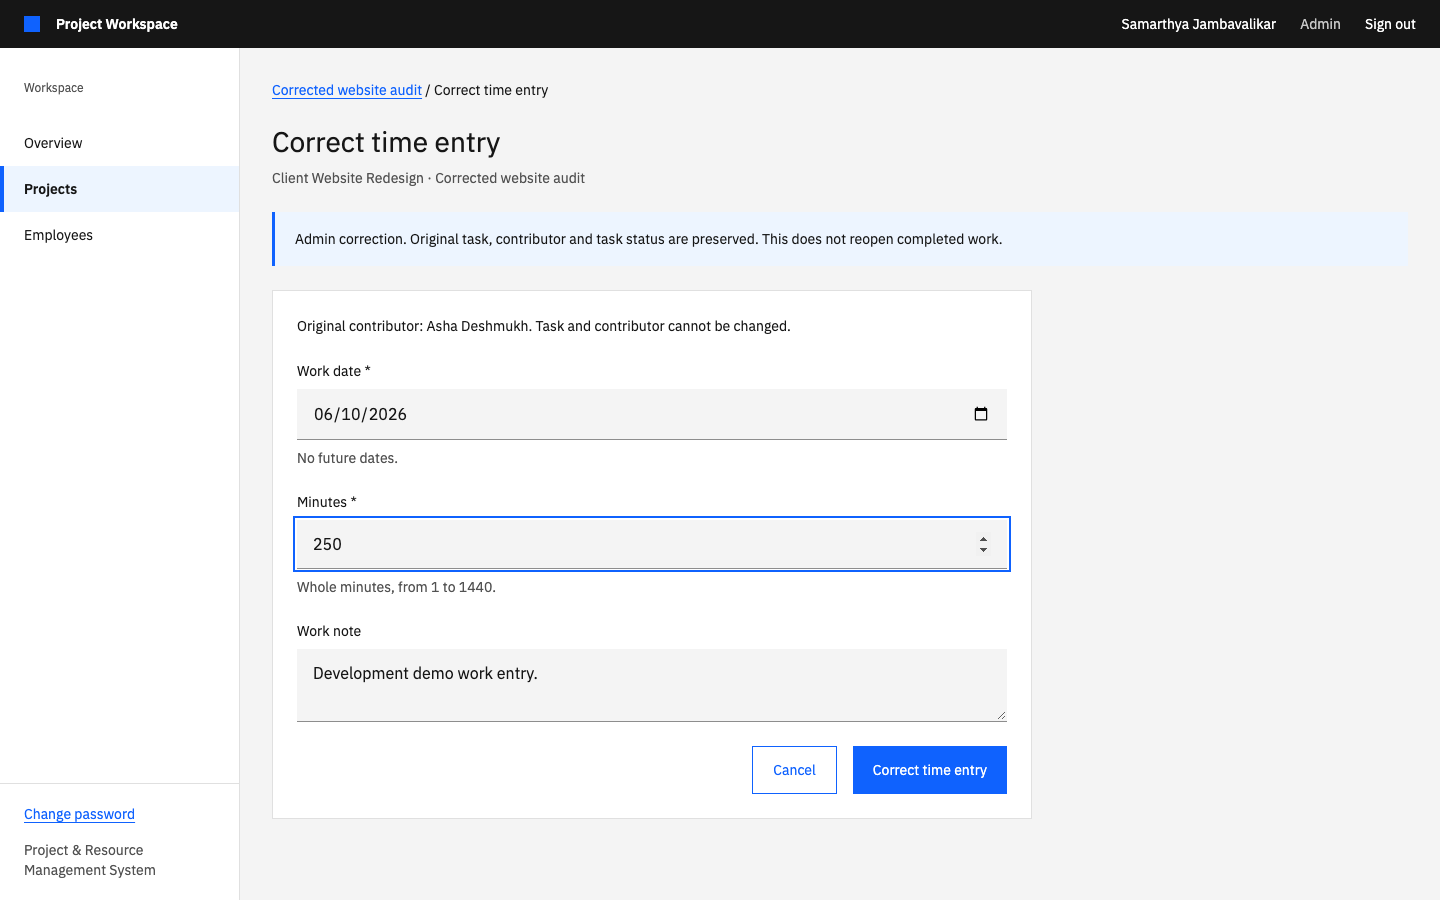
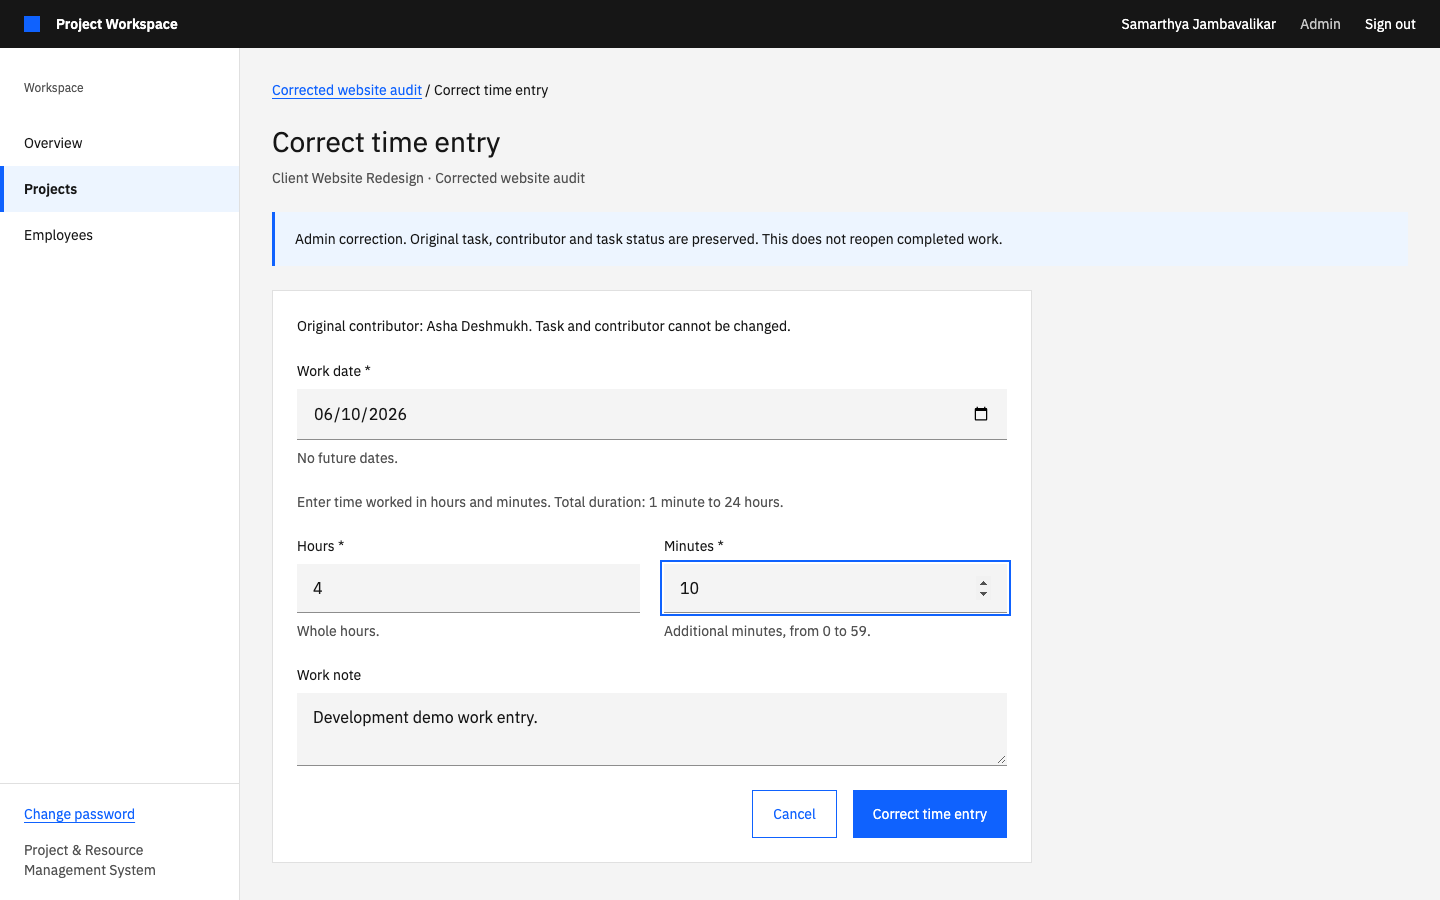
Make time logging easier with hours and minutes

Changed region(s): [[0.1875, 0.5289, 0.6875, 0.7156], [0.5312, 0.8089, 0.7188, 0.9333], [0.2188, 0.7467, 0.375, 0.8089]]

diff --git a/templates/workspace/time_fields.html b/templates/workspace/time_fields.html
@@ -1,1 +1,5 @@
-{% include "workspace/form_errors.html" %}{% include "workspace/field.html" with field=form.work_date %}{% include "workspace/field.html" with field=form.minutes %}{% include "workspace/field.html" with field=form.note %}<p class="saving-status" role="status" hidden>Saving…</p>
+{% include "workspace/form_errors.html" %}
+{% include "workspace/field.html" with field=form.work_date %}
+<p class="help">Enter time worked in hours and minutes. Total duration: 1 minute to 24 hours.</p>
+<div class="field-grid">{% include "workspace/field.html" with field=form.hours %}{% include "workspace/field.html" with field=form.minutes %}</div>
+{% include "workspace/field.html" with field=form.note %}<p class="saving-status" role="status" hidden>Saving…</p>

diff --git a/tests/test_task_html.py b/tests/test_task_html.py
@@ -26,7 +26,19 @@ def task_data(t, **extra):
 
 
 def time_data(t, **extra):
-    return {"work_date": str(t.today), "minutes": 60, "note": "Retained private note", **extra}
+    duration = extra.pop("minutes", 60)
+    hours, minutes = (
+        divmod(duration, 60)
+        if isinstance(duration, int) and "hours" not in extra
+        else (0, duration)
+    )
+    return {
+        "work_date": str(t.today),
+        "hours": hours,
+        "minutes": minutes,
+        "note": "Retained private note",
+        **extra,
+    }
 
 
 def test_complete_html_journey(workspace):
@@ -263,7 +275,39 @@ def test_database_failure_preserves_time_input(workspace):
     with patch("projects.services.create_time_entry", side_effect=DatabaseError("Test outage")):
         response = client_for(t.employee).post(f"/tasks/{t.task.pk}/time/add/", time_data(t))
     assert "Your changes could not be saved" in response.content.decode()
-    assert response.context["form"]["minutes"].value() == "60"
+    assert response.context["form"]["hours"].value() == "1"
+    assert response.context["form"]["minutes"].value() == "0"
+
+
+@pytest.mark.parametrize(
+    "hours,minutes,total", [(0, 1, 1), (3, 0, 180), (1, 30, 90), (24, 0, 1440)]
+)
+def test_hours_minutes_saved_as_total_minutes(workspace, hours, minutes, total):
+    t = workspace
+    response = client_for(t.employee).post(
+        f"/tasks/{t.task.pk}/time/add/", time_data(t, hours=hours, minutes=minutes)
+    )
+    assert response.status_code == 302
+    assert TimeEntry.objects.filter(task=t.task).latest("pk").minutes == total
+
+
+@pytest.mark.parametrize("hours,minutes", [(0, 0), (24, 1), (-1, 30), (1, 60), ("1.5", 0)])
+def test_invalid_split_duration_preserves_input(workspace, hours, minutes):
+    t = workspace
+    response = client_for(t.employee).post(
+        f"/tasks/{t.task.pk}/time/add/", time_data(t, hours=hours, minutes=minutes)
+    )
+    assert response.context["form"].errors
+    assert response.context["form"]["hours"].value() == str(hours)
+    assert response.context["form"]["note"].value() == "Retained private note"
+    assert TimeEntry.objects.filter(task=t.task).count() == 1
+
+
+def test_edit_time_initial_duration_is_split(workspace):
+    t = workspace
+    response = client_for(t.employee).get(f"/time-entries/{t.entry.pk}/edit/")
+    assert response.context["form"]["hours"].value() == 1
+    assert response.context["form"]["minutes"].value() == 30
 
 
 def test_actual_csrf_task_and_time_mutations(workspace):

diff --git a/tests/test_task_browser.py b/tests/test_task_browser.py
@@ -74,7 +74,10 @@ def test_manager_employee_complete_desktop_workflow(page, live_server):
     page.get_by_role("button", name="Start task", exact=True).click()
     expect(page.get_by_role("heading", name="Log time", exact=True)).to_be_visible()
     page.get_by_label("Work date").fill(today)
-    page.get_by_label("Minutes").fill("90")
+    page.get_by_label("Hours").fill("1")
+    page.keyboard.press("Tab")
+    expect(page.get_by_label("Minutes")).to_be_focused()
+    page.get_by_label("Minutes").fill("30")
     page.get_by_label("Work note").fill("Keyboard and navigation review")
     page.get_by_role("button", name="Log time", exact=True).click()
     entry = TimeEntry.objects.get(task=task)
@@ -82,7 +85,10 @@ def test_manager_employee_complete_desktop_workflow(page, live_server):
     shell_checks(page)
     capture(page, "employee-in-progress")
     page.get_by_role("link", name=f"Edit time entry {entry.pk}", exact=True).click()
-    page.get_by_label("Minutes").fill("120")
+    expect(page.get_by_label("Hours")).to_have_value("1")
+    expect(page.get_by_label("Minutes")).to_have_value("30")
+    page.get_by_label("Hours").fill("2")
+    page.get_by_label("Minutes").fill("0")
     capture(page, "employee-edit-time")
     page.get_by_role("button", name="Save time", exact=True).click()
     # Bypass native numeric validation to verify the server error and retained note.
@@ -128,7 +134,8 @@ def test_manager_employee_complete_desktop_workflow(page, live_server):
         str(live_server) + f"/time-entries/{entry.pk}/edit/",
         form={
             "work_date": today,
-            "minutes": "999",
+            "hours": "2",
+            "minutes": "0",
             "note": "Forbidden",
             "csrfmiddlewaretoken": token,
         },
@@ -174,7 +181,8 @@ def test_admin_corrections_and_foreign_access(page, live_server, demo):
     page.get_by_role("button", name="Correct completed task", exact=True).click()
     page.get_by_role("link", name=f"Correct time entry {entry.pk}", exact=True).click()
     expect(page.get_by_text("Original contributor: Asha Deshmukh.", exact=False)).to_be_visible()
-    page.get_by_label("Minutes").fill("250")
+    page.get_by_label("Hours").fill("4")
+    page.get_by_label("Minutes").fill("10")
     capture(page, "admin-time-correction")
     page.get_by_role("button", name="Correct time entry", exact=True).click()
     task.refresh_from_db()

diff --git a/projects/forms.py b/projects/forms.py
@@ -103,8 +103,9 @@ class TimeForm(OperationForm):
         widget=forms.DateInput(attrs={"type": "date"}, format="%Y-%m-%d"),
         help_text="No future dates.",
     )
+    hours = forms.IntegerField(min_value=0, max_value=24, initial=0, help_text="Whole hours.")
     minutes = forms.IntegerField(
-        min_value=1, max_value=1440, help_text="Whole minutes, from 1 to 1440."
+        min_value=0, max_value=59, initial=0, help_text="Additional minutes, from 0 to 59."
     )
     note = forms.CharField(
         label="Work note", required=False, widget=forms.Textarea(attrs={"rows": 2})
@@ -115,7 +116,23 @@ class TimeForm(OperationForm):
         self.fields["work_date"].widget.attrs["max"] = timezone.localdate().isoformat()
         self.initial["work_date"] = timezone.localdate()
         if entry:
-            self.initial.update(work_date=entry.work_date, minutes=entry.minutes, note=entry.note)
+            hours, minutes = divmod(entry.minutes, 60)
+            self.initial.update(
+                work_date=entry.work_date, hours=hours, minutes=minutes, note=entry.note
+            )
+
+    def clean(self):
+        data = super().clean()
+        if "hours" in data and "minutes" in data:
+            total = data["hours"] * 60 + data["minutes"]
+            if not 1 <= total <= 1440:
+                raise ValidationError("Enter a duration from 1 minute to 24 hours.")
+        return data
+
+    def service_data(self):
+        data = dict(self.cleaned_data)
+        data["minutes"] += data.pop("hours") * 60
+        return data
 
 
 class TaskFilterForm(forms.Form):

diff --git a/projects/task_views.py b/projects/task_views.py
@@ -292,7 +292,7 @@ def time_form(request, task_id=None, entry_id=None, correction=False):
             else services.create_time_entry
         )
         saved, code = save_operation(
-            form, operation, actor, entry.pk if entry else task.pk, **form.cleaned_data
+            form, operation, actor, entry.pk if entry else task.pk, **form.service_data()
         )
         if saved:
             messages.success(

diff --git a/docs/task-ui-verification.md b/docs/task-ui-verification.md
@@ -1,5 +1,27 @@
 # Phase 4B — task/time desktop workflow verification
 
+## Hours and minutes improvement — 8 October 2026
+
+Log time, Edit time and Admin time correction now accept whole Hours and additional
+Minutes (0–59). TimeForm converts them to integer total minutes before calling the
+existing services and splits existing durations for editing. Total duration remains
+1–1440 minutes. Database fields, API contract, reports, attribution and permissions
+are unchanged; no migration is needed.
+
+Executed against isolated PostgreSQL fixtures:
+
+- Focused HTML/browser tests: 35 passed in 39.72 seconds.
+- Full PostgreSQL regression suite: 284 passed in 87.73 seconds.
+- Django check: no issues. Migration drift: no changes detected.
+- Ruff check: passed. Formatting check: 62 files already formatted.
+- Browser coverage includes conversion, edit prefill, retained invalid input,
+  keyboard movement between duration fields, 200% viewport simulation, completion
+  locks and Admin correction preserving attribution. Updated desktop screenshot
+  inspected locally; the split fields reuse existing shared styling.
+
+These are automated local checks, not human manual testing or live Render evidence.
+Render deployment and live verification remain pending for this change.
+
 Executed 8 October 2026 in the existing worktree. Phase 4A changes were already
 present and uncommitted; preserved them and all existing backend behavior. Mutation
 checks used isolated PostgreSQL test fixtures, with no development record or demo

diff --git a/design.md b/design.md
@@ -137,7 +137,7 @@ To do exposes Start task. In progress exposes Mark completed. Completed shows a 
 Assignment/status changes must refresh current data. If the server rejects a stale edit because a task has already completed, preserve unsaved input where practical and explain that it cannot be saved.
 
 ### Log time
-Form: work date, whole minutes and optional work note. Present durations as e.g. 1h 30m; persist integer minutes. Accept positive values only, with a documented maximum per entry. Proposed baseline: own assigned, In progress tasks only, no future work dates, and no normal-user changes after completion.
+Form: work date, whole hours, additional minutes (0–59) and optional work note. Convert hours and minutes to a total of 1–1440 integer minutes on the server. Present durations as e.g. 1h 30m; persist integer minutes. Existing entries split back into hours and minutes for editing. Proposed baseline: own assigned, In progress tasks only, no future work dates, and no normal-user changes after completion.
 Explain that entries record work duration and are not a live timer or proof of clock-in attendance. Invalid membership/ownership must also fail on the API.
 
 ## 7. Shared component behaviour

diff --git a/README.md b/README.md
@@ -302,7 +302,11 @@ ordinary HTML validation/save errors retain values with 200; stale/forbidden ser
 writes retain values with 403. Foreign/missing objects return 404; unsupported methods
 return 405. Repeated current status is a no-op, including repeated completion POST.
 
-Time uses whole minutes 1–1440 and a nonfuture date. An Employee sees only their own
+The HTML time form accepts whole Hours and additional Minutes (0–59), with a total
+from 1 minute to 24 hours. For example, 3 hours and 0 minutes saves 180 minutes.
+Create, edit and Admin correction share this form; existing entries split into hours
+and minutes for editing. PostgreSQL and the REST API still use whole minutes 1–1440
+and a nonfuture date. An Employee sees only their own
 detailed time/notes and original contributions; Admin/owning Manager can read project
 history. Managers cannot edit time. Reassignment/completion immediately blocks ordinary
 time writes; completed work exposes read-only guidance and explicit Admin corrections.

diff --git a/docs/paper-ui-handoff.md b/docs/paper-ui-handoff.md
@@ -100,6 +100,12 @@ executed browser/PostgreSQL checks and the limits of visual parity/accessibility
 
 ## Phase 4B implementation comparison — 8 October 2026
 
+User-requested duration improvement (8 October): Log time, Edit time and Admin
+correction now use Hours and additional Minutes (0–59). The server converts them
+to whole minutes; the stored schema and REST contract are unchanged. This deliberately
+differs from the supplied Paper exports' single Minutes input and reuses the existing
+two-column field grid, labels, helper text and validation styles.
+
 Paper Desktop was initially unavailable, then reopened by the user. The current editable
 file above was successfully inspected (19 artboards, 1138 nodes, zero saved tokens in
 this account copy). Read live JSX for Project Tasks/Create task/My tasks/In progress,

diff --git a/docs/business-rules.md b/docs/business-rules.md
@@ -140,6 +140,12 @@ still rejects a forged duplicate. No activation action is exposed. Task/time UI 
 
 ## HTML task/time adapters (Phase 4B)
 
+HTML duration input accepts whole hours (0–24) and additional minutes (0–59).
+TimeForm validates a combined duration of 1–1440 minutes and converts it before
+calling the existing time service. Editing splits stored minutes using divmod.
+The API continues to accept integer total minutes; task/contributor attribution,
+completion locks and all existing service validation still apply.
+
 `projects/task_views.py` parses forms and calls existing shared services. The project
 Tasks tab uses scoped status/assignee filters; My tasks is Employee-only, scoped to
 current assignments, and defaults to unfinished. Lists paginate before separately
